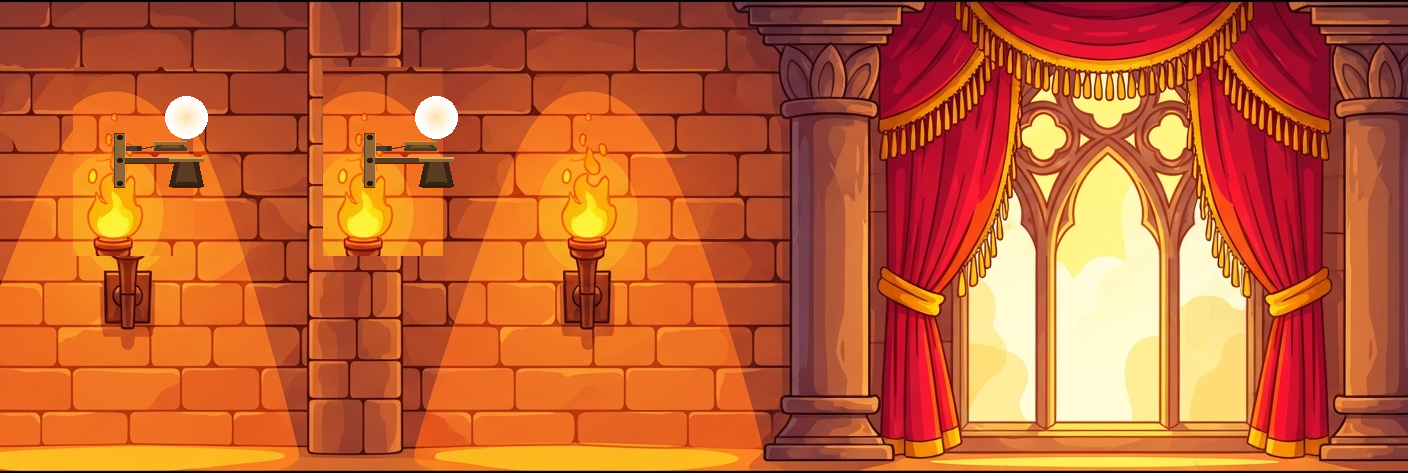
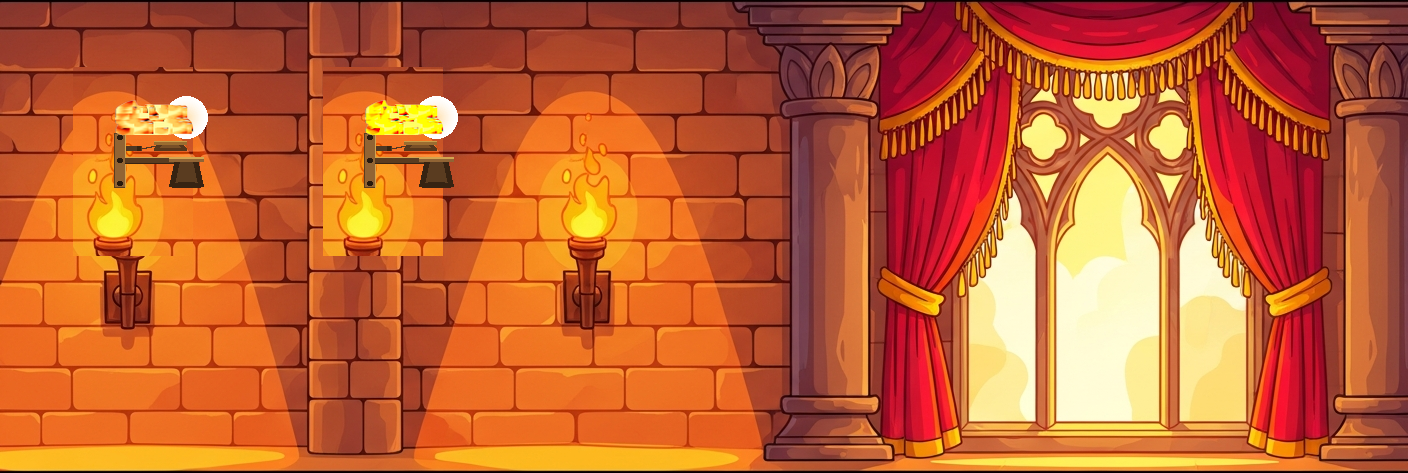
Animate fire by swapping background images
Replace separate fire sprite animation with baked-in fire frames in alternating background images, and remove the fire sprite overlay from the rendering logic in mainGame.py.

Replit-Commit-Author: Agent
Replit-Commit-Session-Id: c7b7eeb9-c1de-43e3-8e58-ffdee0e9d70b
Replit-Commit-Checkpoint-Type: full_checkpoint
Replit-Commit-Event-Id: 5b9f01fa-88d1-452f-9ad0-ddab2f1b4598
Replit-Helium-Checkpoint-Created: true

Changed region(s): [[0.0625, 0.2072, 0.1562, 0.296], [0.25, 0.2072, 0.3125, 0.296]]

diff --git a/Game/mainGame.py b/Game/mainGame.py
@@ -1588,17 +1588,7 @@ class Background():
         self.surface.blit(self.roof, (self.bgX1, self.bgY1))
         self.surface.blit(self.roof, (self.bgX2, self.bgY2))
 
-        # Animate fire frames over each torch position (sconce is baked into bg)
-        fire_img = self.fire_frames[self.fire_frame_idx]
-        for bgx in (self.bgX1, self.bgX2 + 5):
-            for tx in self.torch_offsets:
-                sx = bgx + tx
-                if -60 < sx < 960:
-                    self.surface.blit(fire_img, (sx, self.fire_y))
-        self.fire_timer += 1
-        if self.fire_timer >= 7:
-            self.fire_timer = 0
-            self.fire_frame_idx = (self.fire_frame_idx + 1) % 4
+        # Fire is baked into background A/B images – no sprite overlay needed
 
     def update(self, characterPosition, height):
         if self.getStopBackground() or self.getBlackBackground():
